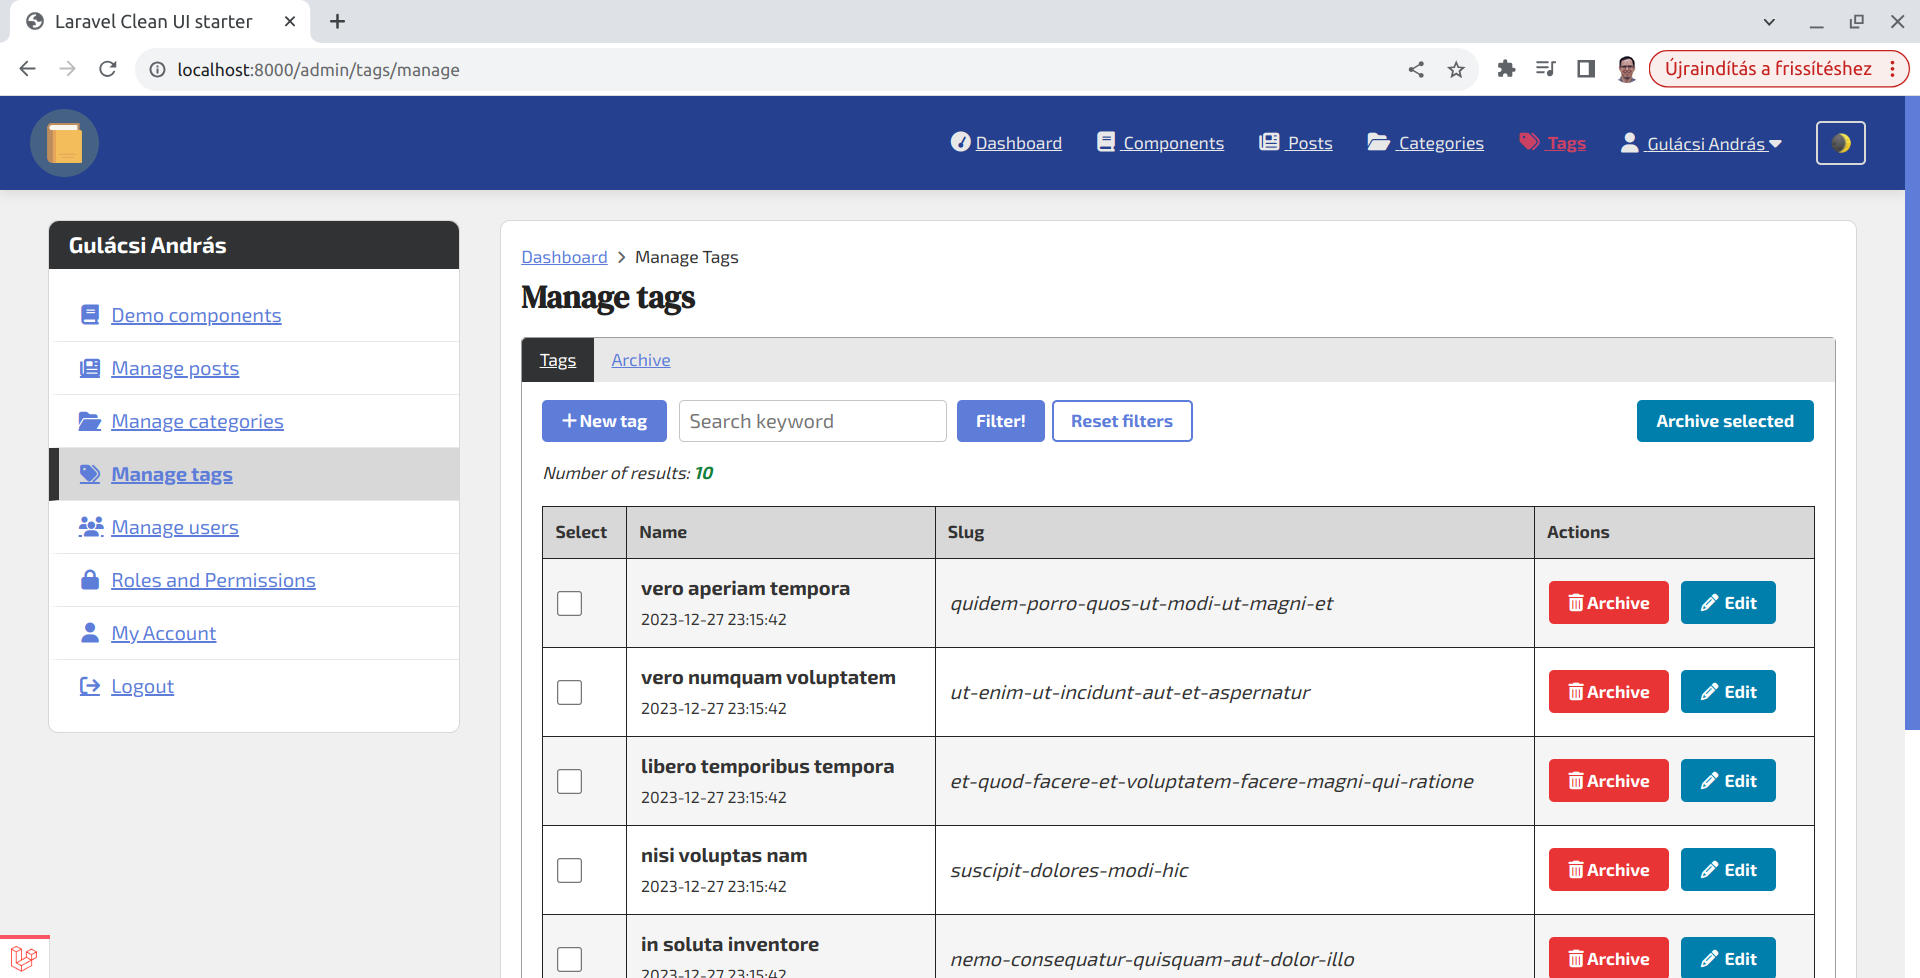
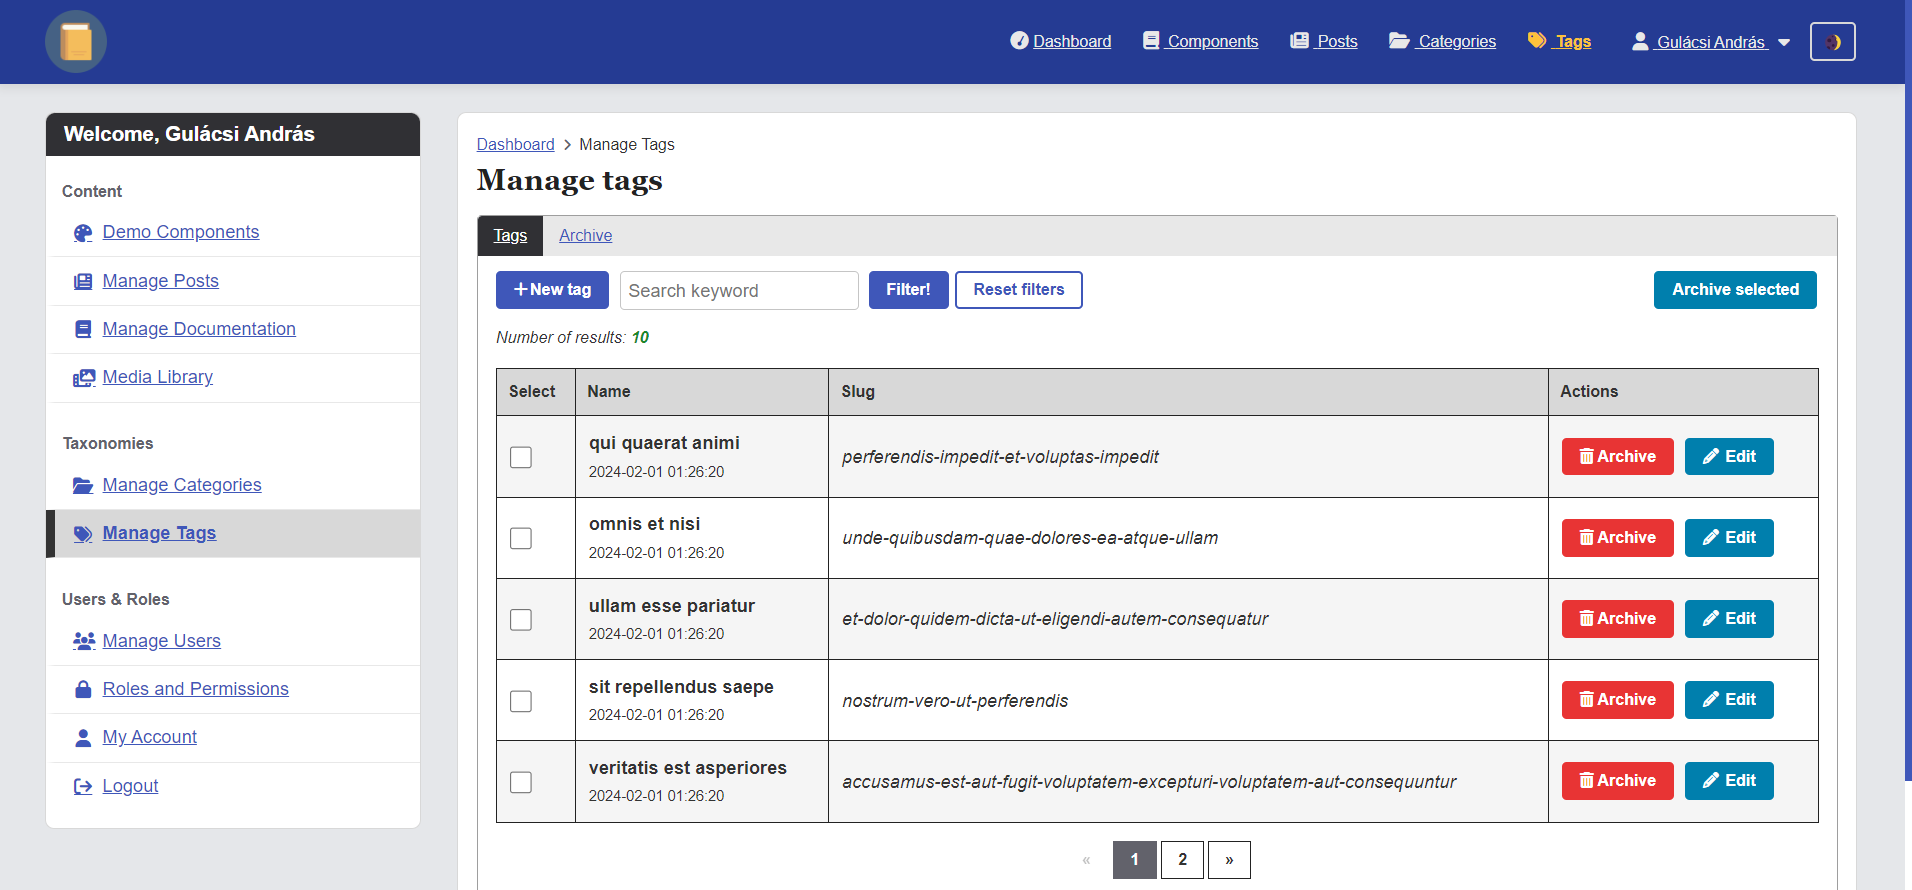
Update the Readme, replace screenshot.png
The project is not versioned yet. It is not ready for production, still needs more testing.

diff --git a/README.md b/README.md
@@ -4,23 +4,25 @@
 apps
 in my opinion. I prefer this over the bloated starter packs like Breeze, or Jetstream.
 
-Laravel Clean.UI is a modification of the Laravel UI, where I removed Bootstrap and replaced it with my Clean.ui CSS
+Laravel Clean.UI is a modification of the Laravel UI, where I removed Bootstrap and replaced it with my Clean.UI CSS
 library with some extra JS codes. It is intended for a fullstack Laravel app with the usual blade templates/views, and
 Livewire.
 
-It includes a demo blog as an example with posts, post tags, and post categories. However, it will not contain more
+It includes a demo blog as an example with posts, post tags, post categories, and a documentation section (re-orderable docs
+pages). However, it will not contain more
 example codes to keep this starter slim.
 
-In the project, I try to use good practices when organizing the codes (like the usage of service and repository classes,
-use cleaner codes...)
+In the project, I try to use good practices when organizing the codes (usage of service, and repository classes,
+use clean code, etc.)
 
 _Disclaimer: This project is under development, not 100% ready, but close._
 
 
-## Todos
+## TODOs
 
-- TODO: Add the public-facing side of the demo blog, after the admin-side is finalized
-
+- ~~TODO: Add the public-facing side of the demo blog, after the admin-side is finalized~~ -> DONE
+- Create a better documentation
+- Check Laravel 11, and PHP 8.2 compatibility
 
 ## Screenshot
 
@@ -47,8 +49,7 @@ npm install
 
 Setup `.env` variables. Especially database and email settings. You need to have a local smtp server, and a user
 interface to receive and view emails (account verification, 2fa code emails). For example, one solution is to
-install [mailcatcher](https://mailcatcher.me/)
-on your computer.
+install [mailcatcher](https://mailcatcher.me/), or [PaperCut SMTP](https://www.papercut-smtp.com/) on your computer.
 
 **These old steps below are not needed:**
 
@@ -72,20 +73,22 @@ php artisan ui bootstrap --auth
 7. Add Composer dependencies (see the example config file). Install packages afterward
 8. Install npm packages. Use your Laravel app as usual (npm run dev, php artisan serve)
 
+
 ## Important notes! - Updating laravel/ui
 
 When updating `laravel/ui`, do not run `php artisan ui bootstrap --auth` again, because it will overwrite your custom
 auth controllers and views!
+
 
 ## Laravel version compatibility
 
 Laravel versions 9.x & 10.x (since the starter is based on laravel/ui 4.x) are supported. The starter has Laravel 10.x
 support, but versions can be downgraded to Laravel 9.x.
 
+
 ## Other dependencies & configuration
 
 **mews/purifier**, **tinymce**, and **alexusmai/laravel-file-manager** are installed.
-
 
 - **mews/purifier**
   https://packagist.org/packages/mews/purifier
@@ -112,7 +115,6 @@ If you do not want to have these embeds enabled, remove this line from the confi
 
 Copy the tinymce folder from inside `vendor/tinymce` folder to `public/assets`!
 
-
 - **alexusmai/laravel-file-manager** https://github.com/alexusmai/laravel-file-manager
 
 For file management the `alexusmai/laravel-file-manager` is used here. As an alternative, you can
@@ -120,9 +122,11 @@ replace it with `unisharp/laravel-filemanager` or with other packages.
 Currently, the posts and the categories use the file manager, tags have a separate image upload implementation (TODO:
 Use the file manager there as well).
 
+
 ## Credits
 
 **Laravel UI**: Copyright (c) Taylor Otwell (MIT license).
+
 
 ## License
 
